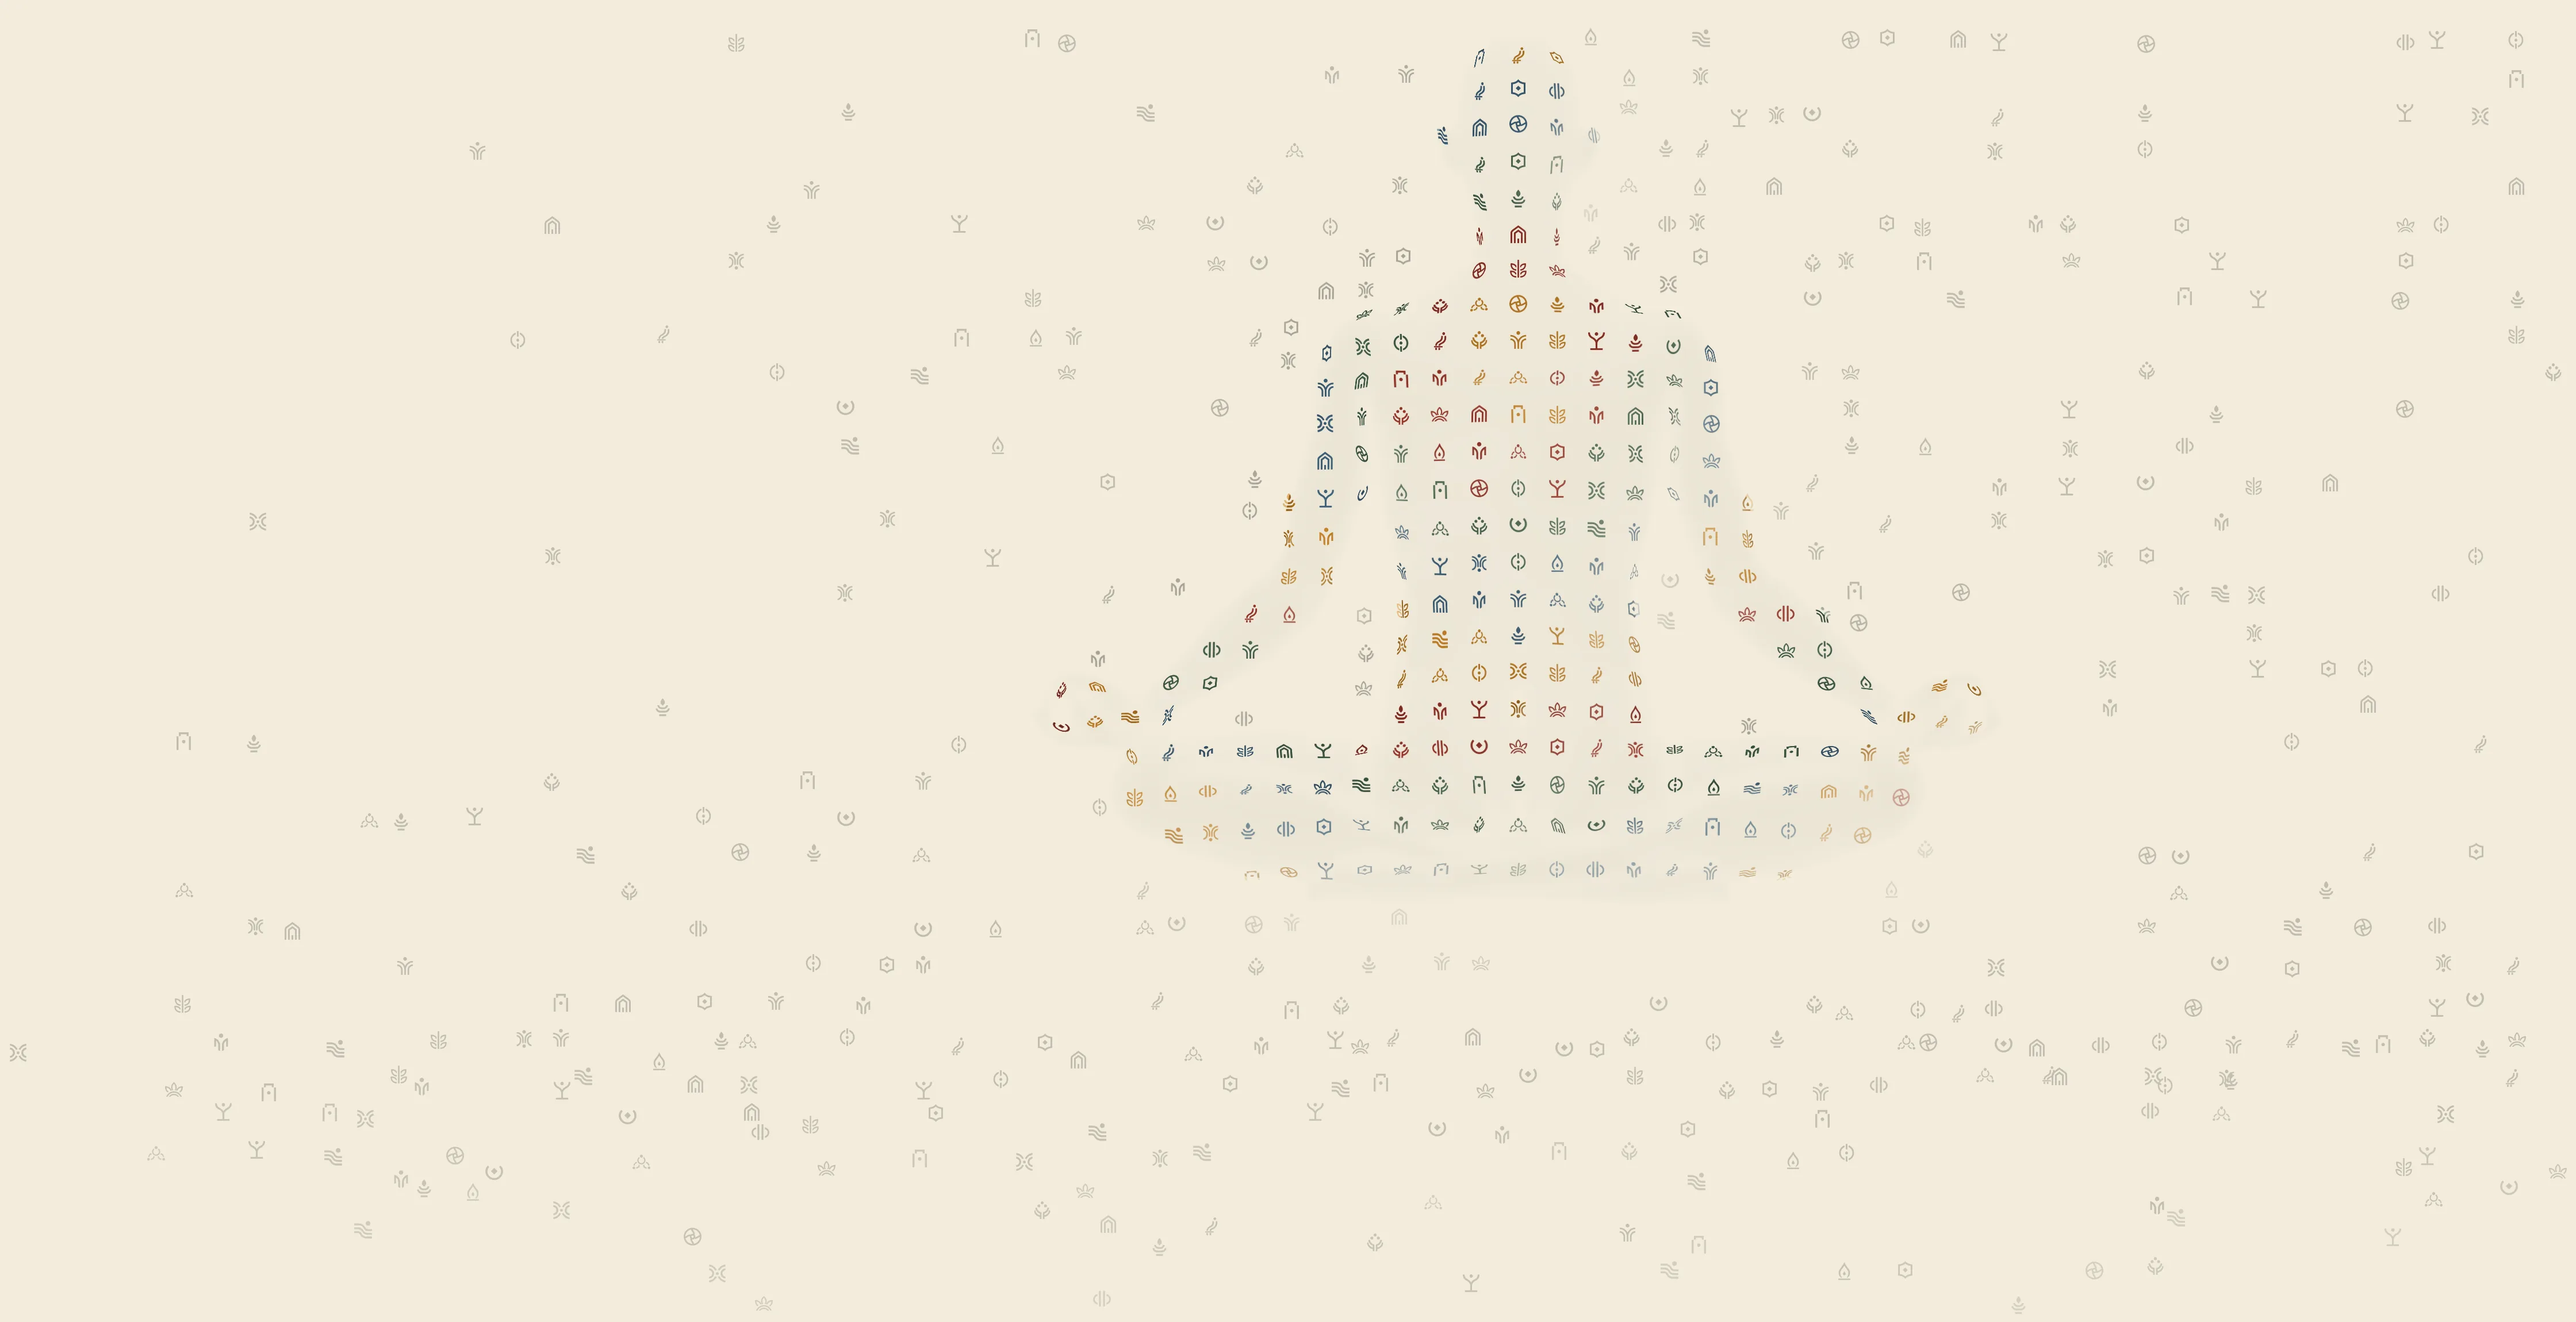
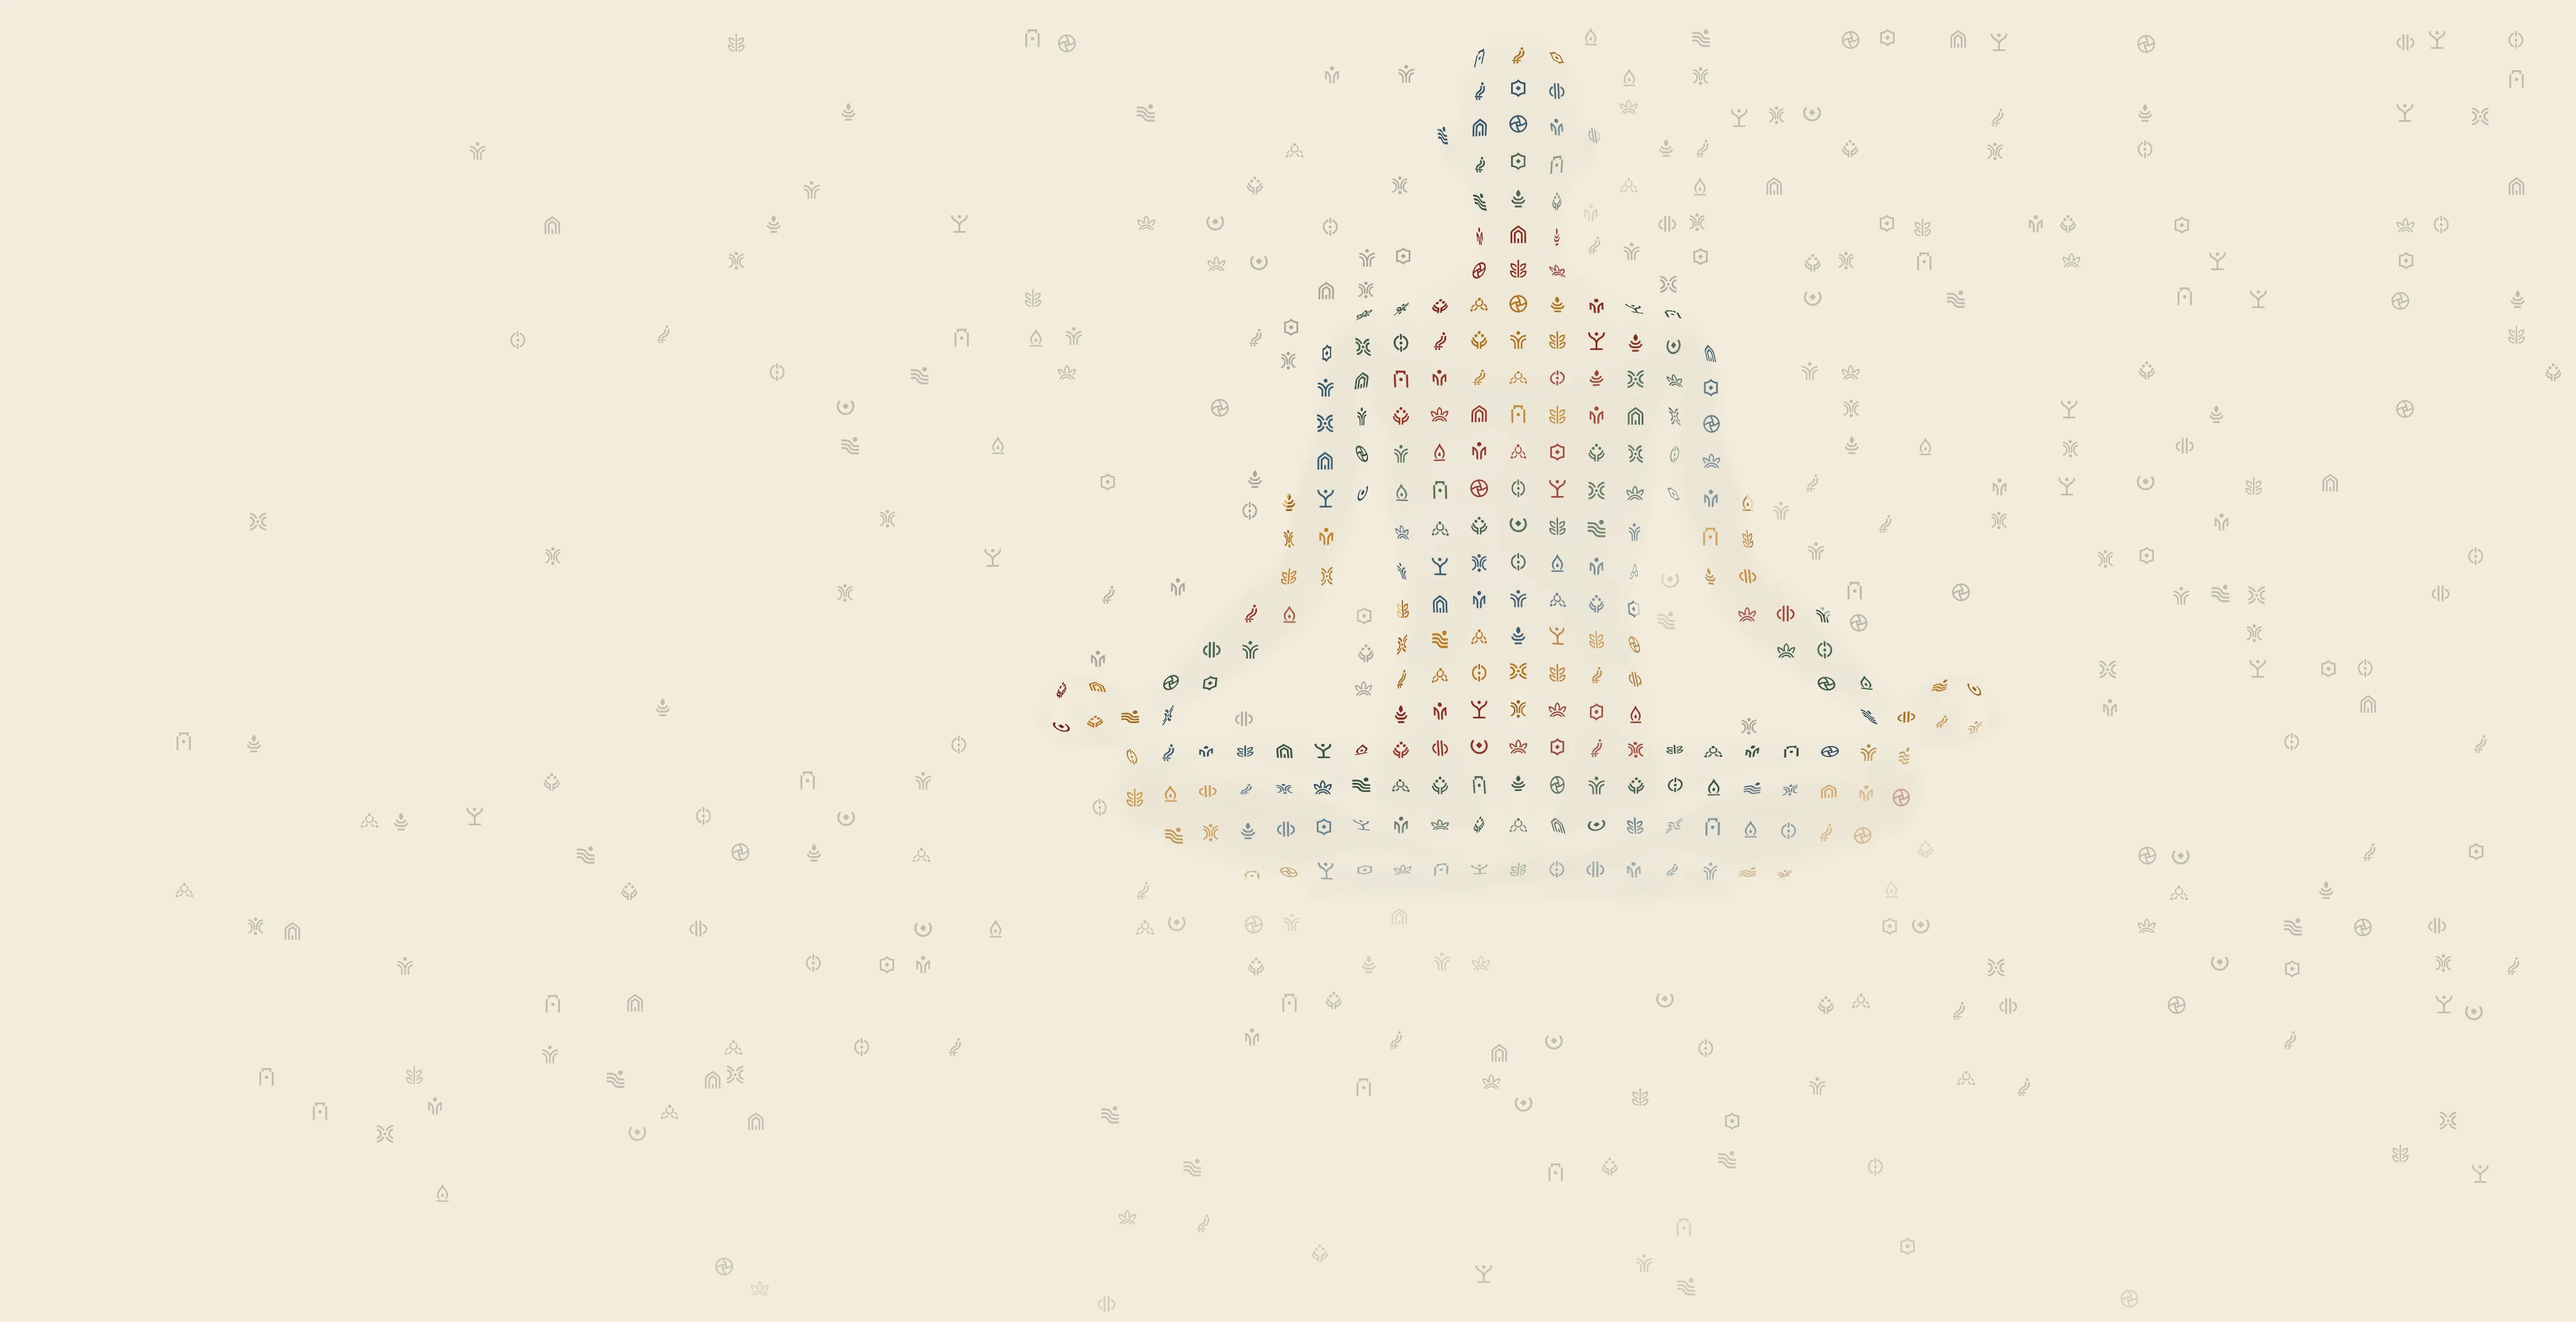
Hero field: ash spread 50% sparser
Claude-Session: https://claude.ai/code/session_01Faxypstm6H8yAswypDCHBa

Changed region(s): [[0.9375, 0.7409, 0.9688, 0.7717]]

diff --git a/scripts/hero-glyph-field.py b/scripts/hero-glyph-field.py
@@ -186,10 +186,10 @@ def fragment(x,y,u):
 # SPARSE_KEEP, thinning to the left of the old edge line (SIDE_OUT) and downwards below the rectangle (SPARSE_FALL to
 # SPARSE_END). Above SOLID_BOTTOM they only drift left and down, by under 6 units, so none crosses into the rectangle.
 SOLID_BOTTOM=853.3        # the gap between the glyph rows at y 837.2 and 869.4
-SPARSE_KEEP=0.45         # below the rectangle, at its edge
+SPARSE_KEEP=0.225         # below the rectangle, at its edge
 SIDE_OUT=200
 SPARSE_FALL=300
-SPARSE_END=0.03
+SPARSE_END=0.015
 ASH_FADE=0.6             # Nov 19 (Dat, "like ashes"): falling glyphs fade unevenly, up to this much at the bottom
 LEFT_KEEP=0.2            # left of the cut, above the bottom edge (Nov 19: kept low and sparse)
 SPARSE_CLUMP=0.05        # less clumping than the old break-up: no big empty patches

diff --git a/docs/edit-ledger.md b/docs/edit-ledger.md
@@ -844,3 +844,8 @@ commits. Hashes below were backfilled for commits made before the ledger existed
 - Below the solid rectangle the spread is sparser (`SPARSE_KEEP` 0.45, thinning over 300 units to 0.03). Glyphs scatter well off the grid as they fall, and fade unevenly, up to 60% lighter toward the bottom (`ASH_FADE`). The left spread and the rectangle are unchanged.
 - Provisional: committed locally; waiting for Dat's go-ahead to push.
 - Why: Dat, Nov 19 ("make this more sparse and spread? kind of like ashes").
+
+### 2026-11-19 · Hero field: ash spread 50% sparser (local, not pushed) (`home-04-lanes` only)
+- The spread below the solid rectangle keeps half as many glyphs (`SPARSE_KEEP` 0.225, `SPARSE_END` 0.015); the scatter and fade are unchanged.
+- Provisional: committed locally; waiting for Dat's go-ahead to push.
+- Why: Dat, Nov 19 ("i want it 50% sparser").
